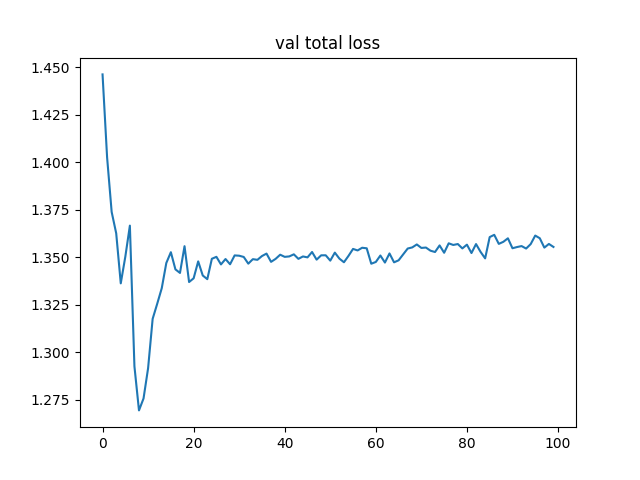
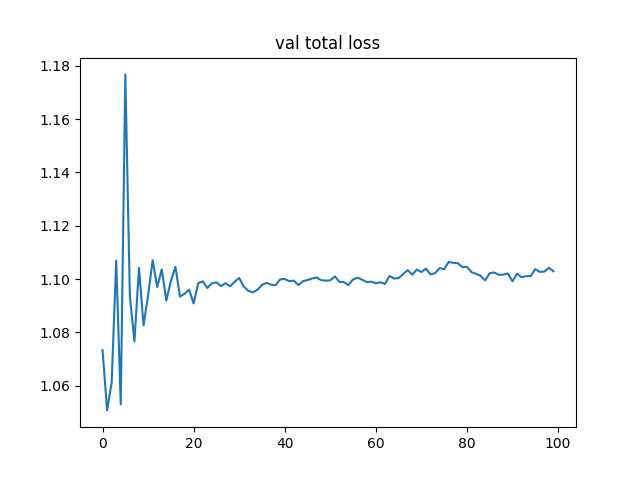
changes

diff --git a/Code/KernelEstimator2d.py b/Code/KernelEstimator2d.py
@@ -1,0 +1,164 @@
+import torch
+import torch.nn as nn
+import torch.nn.functional as F
+
+
+# ---------------------------------------------------------------------------
+# S2K-style building blocks (single conv per stage, no dropout in backbone)
+# ---------------------------------------------------------------------------
+
+class S2KConvBlock(nn.Module):
+    """Single Conv2d → BatchNorm2d → LeakyReLU, matching S2K's design."""
+    def __init__(self, in_channels, out_channels):
+        super().__init__()
+        self.block = nn.Sequential(
+            nn.Conv2d(in_channels, out_channels, 3, padding=1, bias=False),
+            nn.BatchNorm2d(out_channels),
+            nn.LeakyReLU(0.2, inplace=True),
+        )
+
+    def forward(self, x):
+        return self.block(x)
+
+
+class S2KEncoderStage(nn.Module):
+    """Conv block → MaxPool2d(2).  Returns (pre_pool_features, pooled)."""
+    def __init__(self, in_channels, out_channels):
+        super().__init__()
+        self.conv = S2KConvBlock(in_channels, out_channels)
+        self.pool = nn.MaxPool2d(2)
+
+    def forward(self, x):
+        features = self.conv(x)
+        pooled   = self.pool(features)
+        return features, pooled
+
+
+class S2KDecoderStage(nn.Module):
+    """ConvTranspose2d upsample → cat skip → single conv block.
+
+    in_ch   : channels coming into this decoder stage
+    skip_ch : channels of the matching encoder skip connection
+    out_ch  : output channels
+    The conv after concat sees (out_ch + skip_ch) channels.
+    """
+    def __init__(self, in_channels, skip_channels, out_channels):
+        super().__init__()
+        self.upsample = nn.ConvTranspose2d(
+            in_channels, out_channels, kernel_size=2, stride=2, bias=False
+        )
+        self.conv = S2KConvBlock(out_channels + skip_channels, out_channels)
+
+    def forward(self, x, skip):
+        x = self.upsample(x)
+        x = torch.cat([x, skip], dim=1)
+        x = self.conv(x)
+        return x
+
+
+# ---------------------------------------------------------------------------
+# KernelEstimator — S2K-aligned backbone adapted for 512×512 input
+#
+# Spatial map sizes (512×512 input):
+#   enc0 : 512 →  256   ( 1 →  32)
+#   enc1 : 256 →  128   (32 →  64)
+#   enc2 : 128 →   64   (64 → 128)
+#   enc3 :  64 →   32   (128→ 256)
+#   enc4 :  32 →   16   (256→ 256)
+#   enc5 :  16 →    8   (256→ 512)
+#   enc6 :   8 →    4   (512→ 512)
+#   enc7 :   4 →    2   (512→ 512)
+#   bottleneck           (512→ 512)  @ 2×2
+#   dec7 :   2 →    4   (512→ 512)
+#   dec6 :   4 →    8   (512→ 512)
+#   dec5 :   8 →   16   (512→ 256)
+#   dec4 :  16 →   32   (256→ 256)
+#   dec3 :  32 →   64   (256→ 128)
+#   dec2 :  64 →  128   (128→  64)
+#   dec1 : 128 →  256   ( 64→  32)
+#   dec0 : 256 →  512   ( 32→  16)
+#   final_conv : 16 → 2  (1×1 conv, no activation)
+#
+# Output: (B, 2, 512, 512)
+#   channel 0 = real part      of the complex Fourier-domain kernel
+#   channel 1 = imaginary part of the complex Fourier-domain kernel
+#
+# To recover a torch.complex tensor downstream:
+#   kernel_complex = torch.complex(out[:, 0], out[:, 1])  # (B, 512, 512)
+# ---------------------------------------------------------------------------
+
+class KernelEstimator(nn.Module):
+    """
+    U-Net generator whose backbone closely follows the S2K architecture
+    (Tao et al., NeurIPS 2021), extended to accept 512×512 PSD input.
+
+    Estimates the complex-valued reconstruction kernel in the Fourier domain.
+
+    Input : (B, 1, 512, 512)  log-normalised PSD
+    Output: (B, 2, 512, 512)
+              [:, 0, :, :]  — real part      of the frequency-domain kernel
+              [:, 1, :, :]  — imaginary part of the frequency-domain kernel
+
+    To get a complex kernel:
+        kernel_complex = torch.complex(out[:, 0], out[:, 1])
+    """
+
+    def __init__(self):
+        super().__init__()
+
+        # ---- Encoder (8 stages) -----------------------------------------
+        self.enc0 = S2KEncoderStage(  1,  32)   # 512 → 256
+        self.enc1 = S2KEncoderStage( 32,  64)   # 256 → 128
+        self.enc2 = S2KEncoderStage( 64, 128)   # 128 →  64
+        self.enc3 = S2KEncoderStage(128, 256)   #  64 →  32
+        self.enc4 = S2KEncoderStage(256, 256)   #  32 →  16
+        self.enc5 = S2KEncoderStage(256, 512)   #  16 →   8
+        self.enc6 = S2KEncoderStage(512, 512)   #   8 →   4
+        self.enc7 = S2KEncoderStage(512, 512)   #   4 →   2
+
+        # ---- Bottleneck (2×2) -------------------------------------------
+        self.bottleneck = S2KConvBlock(512, 512)
+
+        # ---- Decoder (8 stages, mirrors encoder) ------------------------
+        self.dec7 = S2KDecoderStage(512, 512, 512)  #  2 →  4
+        self.dec6 = S2KDecoderStage(512, 512, 512)  #  4 →  8
+        self.dec5 = S2KDecoderStage(512, 512, 256)  #  8 → 16
+        self.dec4 = S2KDecoderStage(256, 256, 256)  # 16 → 32
+        self.dec3 = S2KDecoderStage(256, 256, 128)  # 32 → 64
+        self.dec2 = S2KDecoderStage(128, 128,  64)  # 64 → 128
+        self.dec1 = S2KDecoderStage( 64,  64,  32)  # 128 → 256
+        self.dec0 = S2KDecoderStage( 32,  32,  16)  # 256 → 512
+
+        # ---- Output head ------------------------------------------------
+        # 1×1 conv: 16 → 2, no activation (outputs are unbounded real values)
+        # ch 0 → real part, ch 1 → imaginary part of the complex kernel H(u,v)
+        self.final_conv = nn.Conv2d(16, 2, kernel_size=1, bias=True)
+
+    def forward(self, psd):
+        # -- Encoder ------------------------------------------------------
+        s0, x = self.enc0(psd)  # s0:(B, 32,512,512)  x:(B, 32,256,256)
+        s1, x = self.enc1(x)    # s1:(B, 64,256,256)  x:(B, 64,128,128)
+        s2, x = self.enc2(x)    # s2:(B,128,128,128)  x:(B,128, 64, 64)
+        s3, x = self.enc3(x)    # s3:(B,256, 64, 64)  x:(B,256, 32, 32)
+        s4, x = self.enc4(x)    # s4:(B,256, 32, 32)  x:(B,256, 16, 16)
+        s5, x = self.enc5(x)    # s5:(B,512, 16, 16)  x:(B,512,  8,  8)
+        s6, x = self.enc6(x)    # s6:(B,512,  8,  8)  x:(B,512,  4,  4)
+        s7, x = self.enc7(x)    # s7:(B,512,  4,  4)  x:(B,512,  2,  2)
+
+        # -- Bottleneck ---------------------------------------------------
+        x = self.bottleneck(x)  # (B,512,  2,  2)
+
+        # -- Decoder ------------------------------------------------------
+        x = self.dec7(x, s7)    # (B,512,  4,  4)
+        x = self.dec6(x, s6)    # (B,512,  8,  8)
+        x = self.dec5(x, s5)    # (B,256, 16, 16)
+        x = self.dec4(x, s4)    # (B,256, 32, 32)
+        x = self.dec3(x, s3)    # (B,128, 64, 64)
+        x = self.dec2(x, s2)    # (B, 64,128,128)
+        x = self.dec1(x, s1)    # (B, 32,256,256)
+        x = self.dec0(x, s0)    # (B, 16,512,512)
+
+        # -- Output -------------------------------------------------------
+        # (B, 2, 512, 512): ch0=real, ch1=imag of complex kernel H(u,v)
+        x = self.final_conv(x)
+        return x

diff --git a/Code/reconstruct_256.py b/Code/reconstruct_256.py
@@ -1,0 +1,160 @@
+import numpy as np
+import nibabel as nib
+import torch
+import os
+import matplotlib
+matplotlib.use('Agg')
+import matplotlib.pyplot as plt
+from utils import spline_to_kernel, generate_images
+from TestDataset import TestDataset
+from KernelEstimator import KernelEstimator
+from utils import compute_fft
+
+device = 'cuda' if torch.cuda.is_available() else 'cpu'
+model = KernelEstimator()
+checkpoint = torch.load("/home/cxv166/PhantomTesting/Code/training_output_0.5/checkpoints/epoch_7_checkpoint.pth", map_location=device)
+model.load_state_dict(checkpoint['model_state_dict'])
+model.to(device)
+model.eval()
+print('Loaded model successfully')
+
+data_root = "/mnt/vstor/CSE_BME_DLW/cxv166/Data_Root"
+dataset = TestDataset(root_dir=data_root, preload=True)
+print('Loaded test dataset')
+
+output_dir = "/home/cxv166/PhantomTesting/reconstructions"
+plot_dir   = os.path.join(output_dir, "model_output_plots")
+os.makedirs(output_dir, exist_ok=True)
+os.makedirs(plot_dir,   exist_ok=True)
+
+
+# ── helpers ──────────────────────────────────────────────────────────────────
+
+def compute_psd_from_tensor(img_tensor):
+    with torch.no_grad():
+        x = img_tensor.squeeze(1)
+        slice_ft = torch.fft.fftshift(torch.fft.fft2(x))
+        psd = torch.abs(slice_ft) ** 2
+        psd = torch.log(psd + 1)
+        psd_min = psd.min()
+        psd_max = psd.max()
+        psd = (psd - psd_min) / (psd_max - psd_min + 1e-10)
+        return psd.unsqueeze(1).float()
+
+
+def extract_kernel_name(filename):
+    if '_filter_' in filename:
+        return filename.split('_filter_')[1].split('.')[0]
+    return 'unknown'
+
+
+def plot_model_outputs(out_smooth, out_sharp, volume_id, smooth_kernel,
+                       sharp_kernel, slice_idx, plot_dir):
+    """
+    Save a figure with the raw 256-point model outputs for one slice.
+
+    Parameters
+    ----------
+    out_smooth, out_sharp : torch.Tensor  shape (1, 256)
+    """
+    y_smooth = out_smooth.squeeze().cpu().numpy()   # (256,)
+    y_sharp  = out_sharp.squeeze().cpu().numpy()    # (256,)
+    x        = np.arange(len(y_smooth))
+
+    fig, axes = plt.subplots(1, 2, figsize=(12, 4), sharey=False)
+
+    axes[0].plot(x, y_smooth, color='steelblue', linewidth=1.2)
+    axes[0].set_title(f'Model output — smooth input ({smooth_kernel})')
+    axes[0].set_xlabel('Output index')
+    axes[0].set_ylabel('Value')
+    axes[0].grid(True, alpha=0.3)
+
+    axes[1].plot(x, y_sharp, color='tomato', linewidth=1.2)
+    axes[1].set_title(f'Model output — sharp input ({sharp_kernel})')
+    axes[1].set_xlabel('Output index')
+    axes[1].set_ylabel('Value')
+    axes[1].grid(True, alpha=0.3)
+
+    fig.suptitle(f'Volume {volume_id} | Slice {slice_idx}', fontsize=13)
+    plt.tight_layout()
+
+    fname = os.path.join(plot_dir,
+                         f'{volume_id}_slice{slice_idx:03d}_model_outputs.png')
+    fig.savefig(fname, dpi=120, bbox_inches='tight')
+    plt.close(fig)
+    return fname
+
+
+# ── main reconstruction ───────────────────────────────────────────────────────
+
+def reconstruct_volume(sample, model, device, output_dir, plot_dir,
+                       plot_every_n_slices=10):
+    """
+    Reconstruct a volume and save plots of the model outputs every
+    `plot_every_n_slices` slices.
+    """
+    data_smooth   = sample['smooth_volume']
+    data_sharp    = sample['sharp_volume']
+    volume_id     = sample['volume_id']
+    smooth_kernel = extract_kernel_name(sample['smooth_file'])
+    sharp_kernel  = extract_kernel_name(sample['sharp_file'])
+    num_slices    = data_smooth.shape[2]
+
+    vol_generated_sharp  = np.zeros_like(data_smooth, dtype=np.float32)
+    vol_generated_smooth = np.zeros_like(data_sharp,  dtype=np.float32)
+
+    for k in range(num_slices):
+        s_slice = data_smooth[:, :, k].copy()
+        h_slice = data_sharp[:,  :, k].copy()
+
+        s_slice = np.clip(s_slice, -1000, 3000)
+        h_slice = np.clip(h_slice, -1000, 3000)
+
+        s_slice_norm = (s_slice + 1000) / 4000
+        h_slice_norm = (h_slice + 1000) / 4000
+
+        I_smooth_tensor = torch.from_numpy(s_slice_norm).float().unsqueeze(0).unsqueeze(0).to(device)
+        I_sharp_tensor  = torch.from_numpy(h_slice_norm).float().unsqueeze(0).unsqueeze(0).to(device)
+
+        cur_smooth_psd = compute_psd_from_tensor(I_smooth_tensor)
+        cur_sharp_psd  = compute_psd_from_tensor(I_sharp_tensor)
+
+        I_smooth_fft = compute_fft(I_smooth_tensor)
+        I_sharp_fft  = compute_fft(I_sharp_tensor)
+
+        with torch.no_grad():
+            out_smooth = model(cur_smooth_psd)  # (1, 256)
+            out_sharp  = model(cur_sharp_psd)   # (1, 256)
+
+        # ── plot model outputs for selected slices ──────────────────────────
+        if k % plot_every_n_slices == 0:
+            plot_model_outputs(
+                out_smooth, out_sharp,
+                volume_id, smooth_kernel, sharp_kernel,
+                slice_idx=k,
+                plot_dir=plot_dir
+            )
+
+        # ── TODO: build filter_s2sh / filter_sh2s from out_smooth / out_sharp
+        #    before using them below (currently undefined).
+        # filter_s2sh = ...
+        # filter_sh2s = ...
+
+        
+    print(f'Plots saved to: {plot_dir}')
+
+
+# ── run ───────────────────────────────────────────────────────────────────────
+
+for idx in range(len(dataset)):
+    print(f'\nProcessing volume {idx+1}/{len(dataset)}')
+    sample = dataset[idx]
+    reconstruct_volume(
+        sample, model, device,
+        output_dir=output_dir,
+        plot_dir=plot_dir,
+        plot_every_n_slices=10   # ← change to 1 to plot every slice
+    )
+
+print(f'\nReconstruction complete! All files saved to: {output_dir}')
+print(f'Model output plots saved to: {plot_dir}')

diff --git a/Code/reconstruct2d.py b/Code/reconstruct2d.py
@@ -5,15 +5,14 @@ import os
 from utils import spline_to_kernel, generate_images
 from TestDataset import TestDataset
 from KernelEstimator import KernelEstimator
-
+from utils import compute_fft
 device = 'cuda' if torch.cuda.is_available() else 'cpu'
 model = KernelEstimator()
-checkpoint = torch.load("/home/cxv166/PhantomTesting/Code/training_output_0.5/checkpoints/best_checkpoint.pth", map_location=device)
+checkpoint = torch.load("/home/cxv166/PhantomTesting/reconstructions/best_checkpoint_2d_kernel.pth", map_location=device)
 model.load_state_dict(checkpoint['model_state_dict'])
 model.to(device)
 model.eval() 
 print('Loaded model successfully')
-
 data_root = "/mnt/vstor/CSE_BME_DLW/cxv166/Data_Root"
 dataset = TestDataset(root_dir=data_root, preload=True)
 print('Loaded test dataset')
@@ -67,18 +66,23 @@ def reconstruct_volume(sample, model, device, output_dir):
         cur_smooth_psd = compute_psd_from_tensor(I_smooth_tensor)
         cur_sharp_psd  = compute_psd_from_tensor(I_sharp_tensor)
 
+        I_smooth_fft = compute_fft(I_smooth_tensor)
+        I_sharp_fft = compute_fft(I_sharp_tensor)
+
         with torch.no_grad():
-            smooth_curve = model(cur_smooth_psd)  # (1, 256)
-            sharp_curve  = model(cur_sharp_psd)   # (1, 256)
+            out_smooth = model(cur_smooth_psd)  # (1, 256)
+            out_sharp  = model(cur_sharp_psd)   # (1, 256)
 
-            otf_smooth, otf_sharp = spline_to_kernel(smooth_curve, sharp_curve)
+            print(out_smooth.shape)
 
-            filt_s2sh = otf_sharp / (otf_smooth + 1e-10)
-            filt_sh2s = otf_smooth / (otf_sharp  + 1e-10)
+            smooth_kernel = torch.complex(out_smooth[0,:,:], out_smooth[1,:,:])
+            sharp_kernel = torch.complex(out_sharp[0,:,:], out_smooth[1,:,:])
 
-            I_gen_sharp, I_gen_smooth = generate_images(
-                I_smooth_tensor, I_sharp_tensor, filt_s2sh, filt_sh2s, device
-            )
+            filter_s2sh = sharp_kernel/(smooth_kernel + 1e-10)
+            filter_sh2s = smooth_kernel/(sharp_kernel + 1e-10)
+
+            I_gen_sharp = torch.fft.ifft(torch.fft.ifftshift(I_smooth_fft * filter_s2sh))
+            I_gen_smooth = torch.fft.ifft(torch.fft.ifftshift(I_sharp_fft * filter_sh2s))
 
         res_sharp  = I_gen_sharp.detach().cpu().numpy().squeeze()
         res_smooth = I_gen_smooth.detach().cpu().numpy().squeeze()
@@ -95,8 +99,8 @@ def reconstruct_volume(sample, model, device, output_dir):
     nii_generated_sharp  = nib.Nifti1Image(vol_generated_sharp,  sample['sharp_affine'],  sample['sharp_header'])
     nii_generated_smooth = nib.Nifti1Image(vol_generated_smooth, sample['smooth_affine'], sample['smooth_header'])
 
-    sharp_output_path  = os.path.join(output_dir, f'{volume_id}_{sharp_kernel}_to_{smooth_kernel}.nii.gz')
-    smooth_output_path = os.path.join(output_dir, f'{volume_id}_{smooth_kernel}_to_{sharp_kernel}.nii.gz')
+    smooth_output_path  = os.path.join(output_dir, f'{volume_id}_{sharp_kernel}_to_{smooth_kernel}.nii.gz')
+    sharp_output_path = os.path.join(output_dir, f'{volume_id}_{smooth_kernel}_to_{sharp_kernel}.nii.gz')
 
     nib.save(nii_generated_sharp,  sharp_output_path)
     nib.save(nii_generated_smooth, smooth_output_path)

diff --git a/Code/main.py b/Code/main.py
@@ -1,7 +1,7 @@
 import matplotlib.pyplot as plt
 import pandas as pd
 
-df = pd.read_csv('/home/cxv166/PhantomTesting/Code/training_output_0.5/training_metrics_20260519_022245.csv')
+df = pd.read_csv('/home/cxv166/PhantomTesting/Code/training_output_0.5/training_metrics_20260519_071443.csv')
 
 print(df.head())
 
